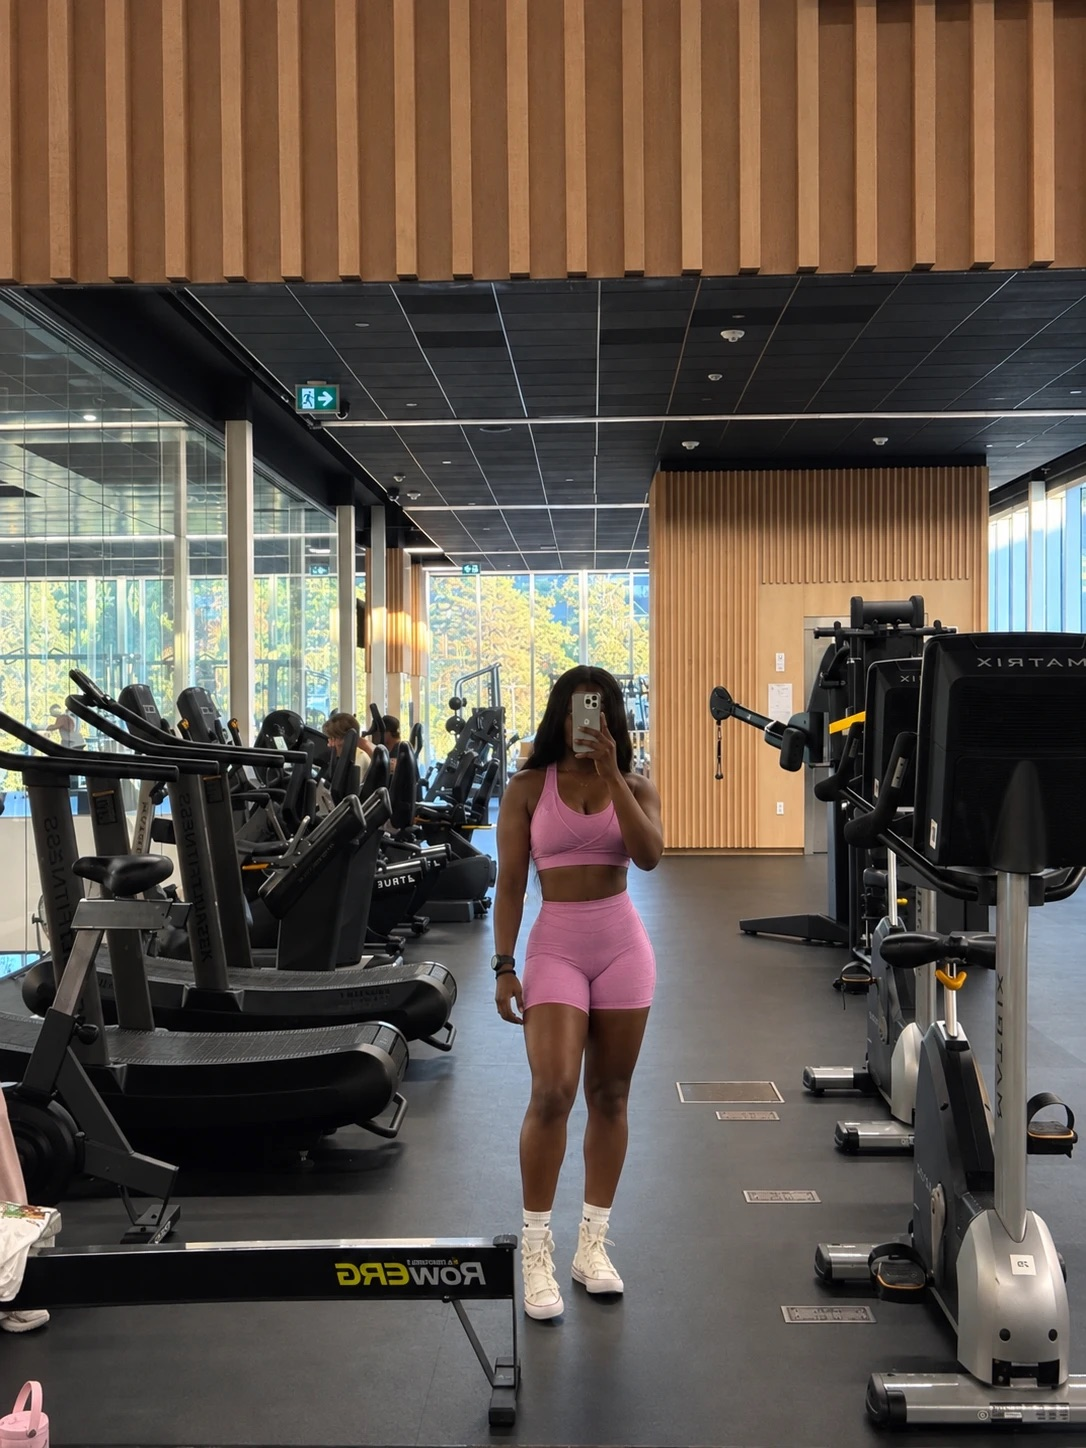
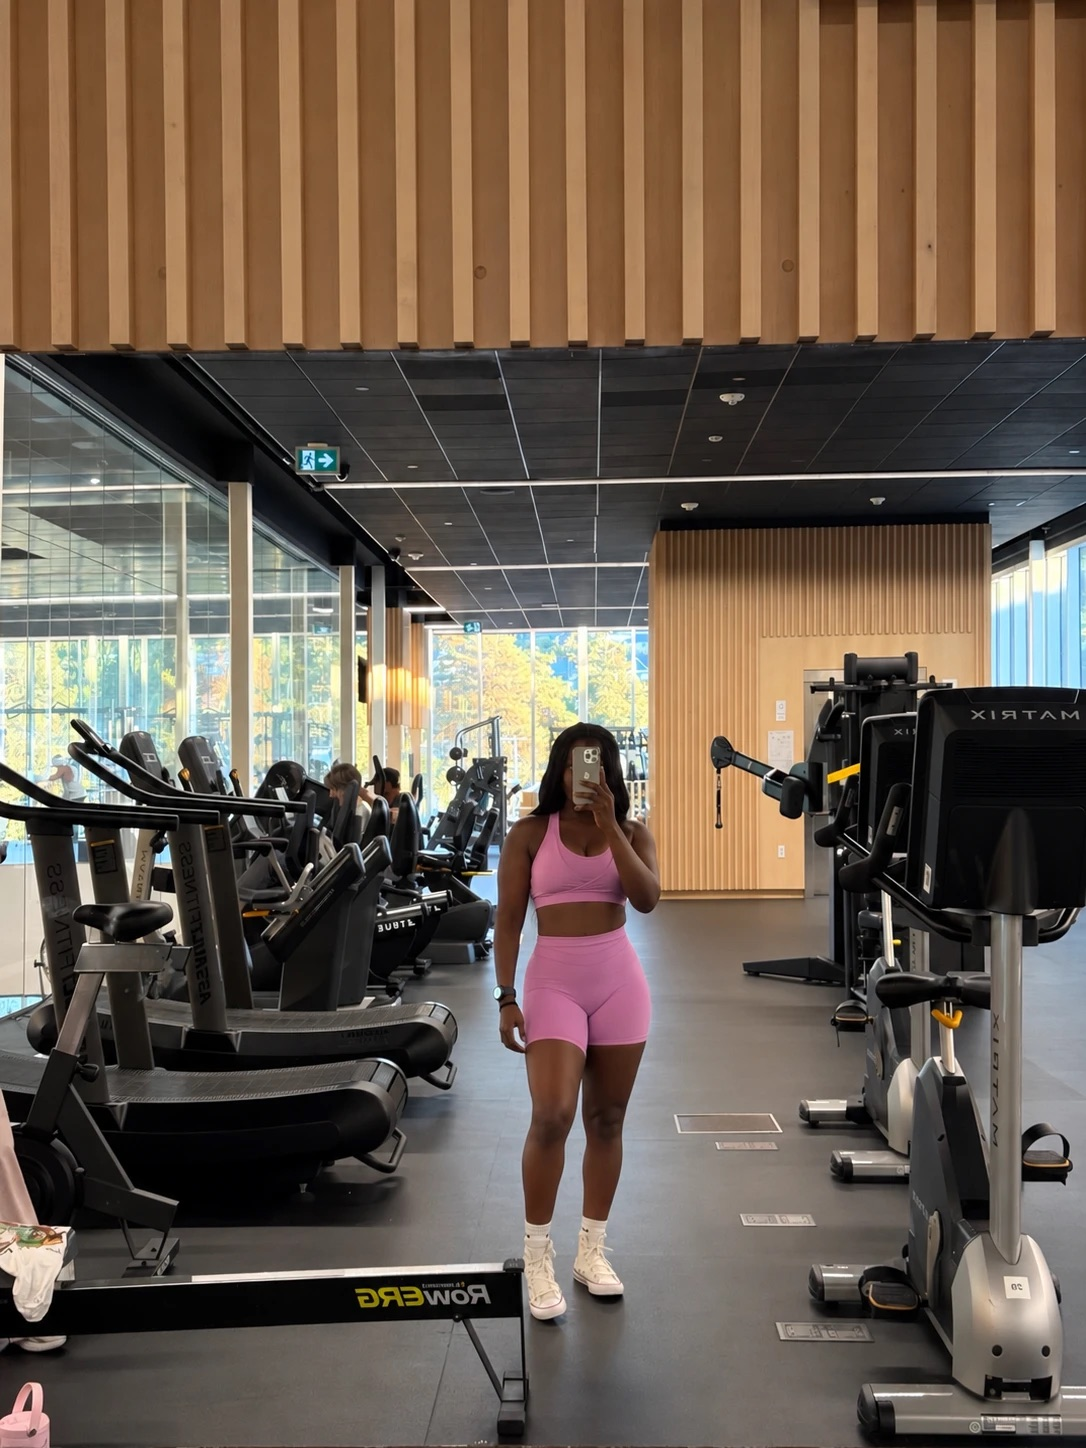
Use Temi's preferred 2026 photo
Same session, but she stands square to the mirror and sits larger in frame.
Re-tuned the zoom so her figure is the same height as the 2020 one: both now
measure 485px in their frames at desktop width.

diff --git a/assets/css/site.css b/assets/css/site.css
@@ -519,7 +519,7 @@ section { padding-block: clamp(48px, 8vw, 76px); }
    same place in both: the scaled point that stays fixed has to sit outside
    the frame to lift her up it. */
 .ba .shot--before img { transform: scale(1.5);  transform-origin: 52% 60%; }
-.ba .shot--after  img { transform: scale(1.43); transform-origin: 59% 107%; }
+.ba .shot--after  img { transform: scale(1.49); transform-origin: 63% 109%; }
 
 .ba figcaption {
   background: var(--green);
